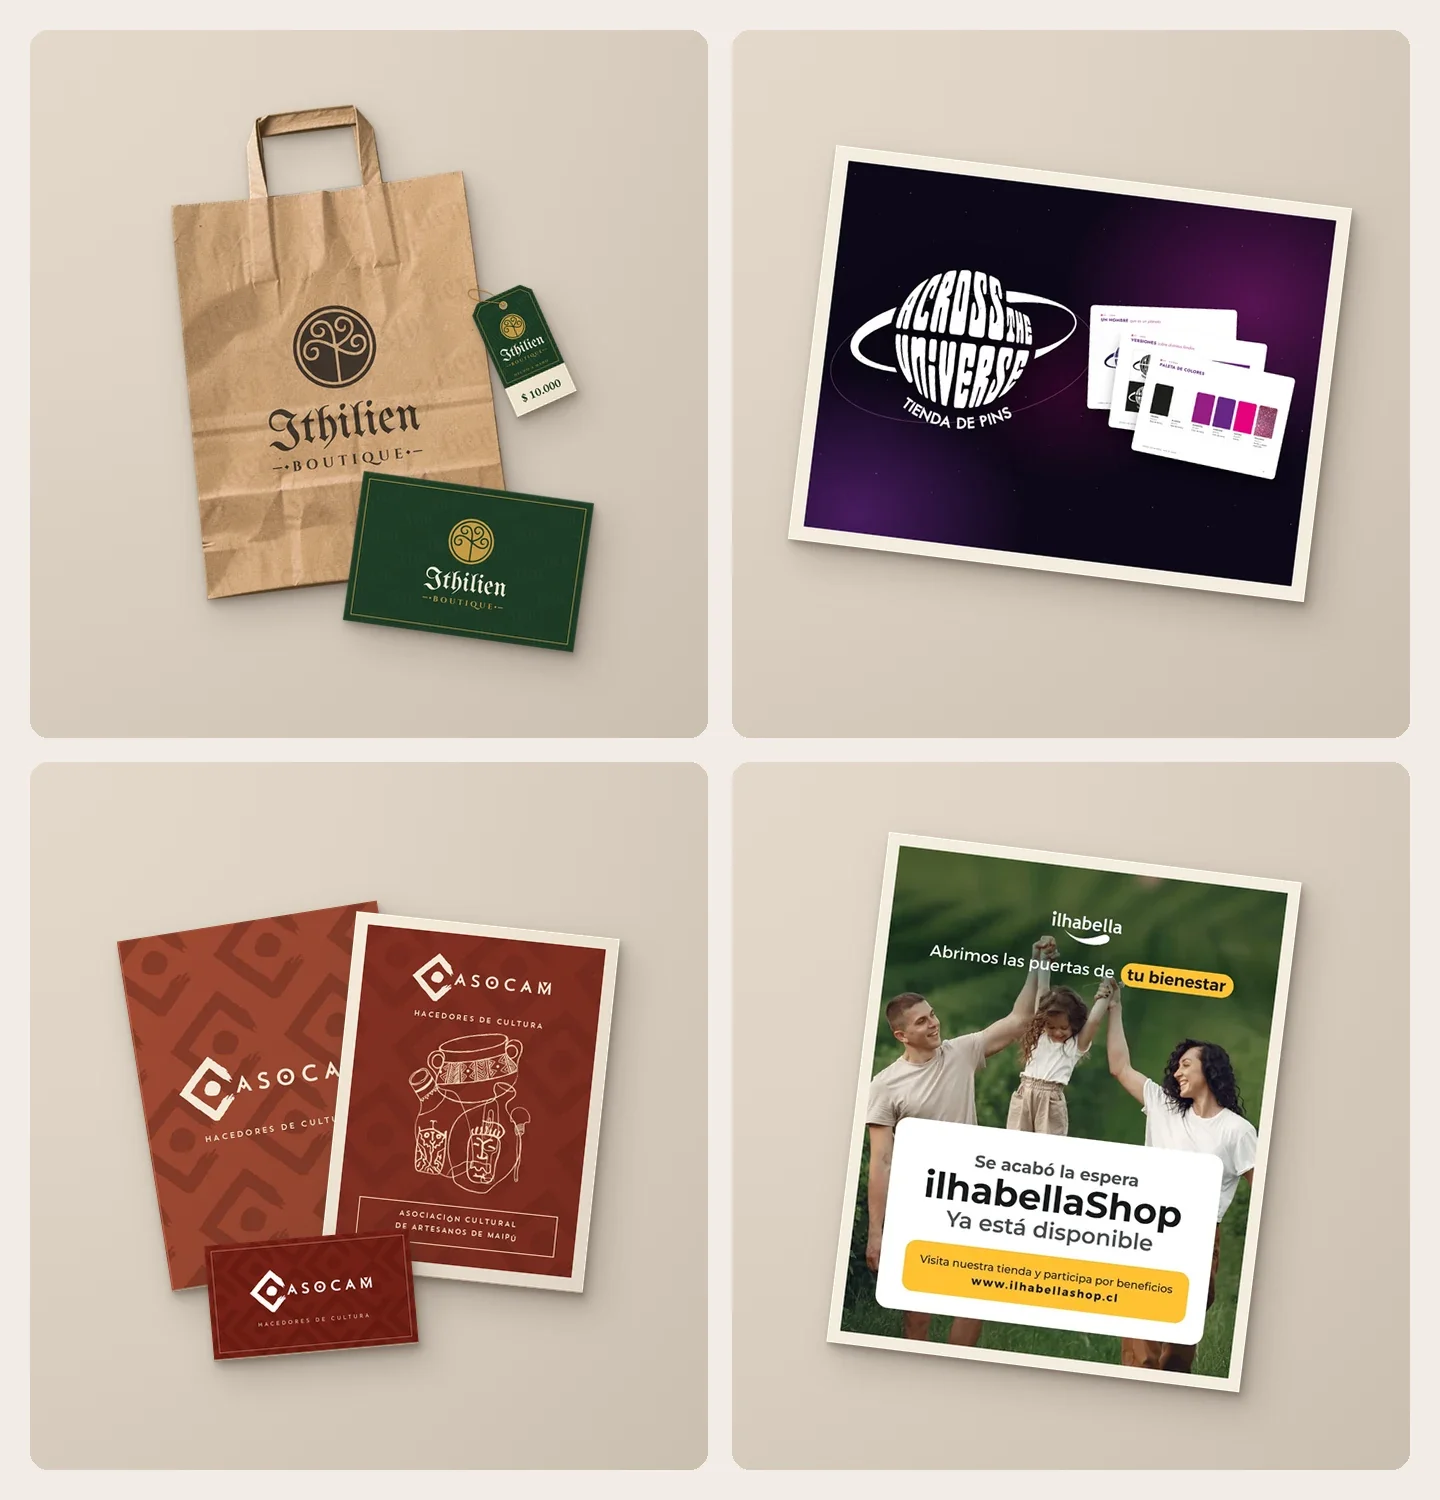
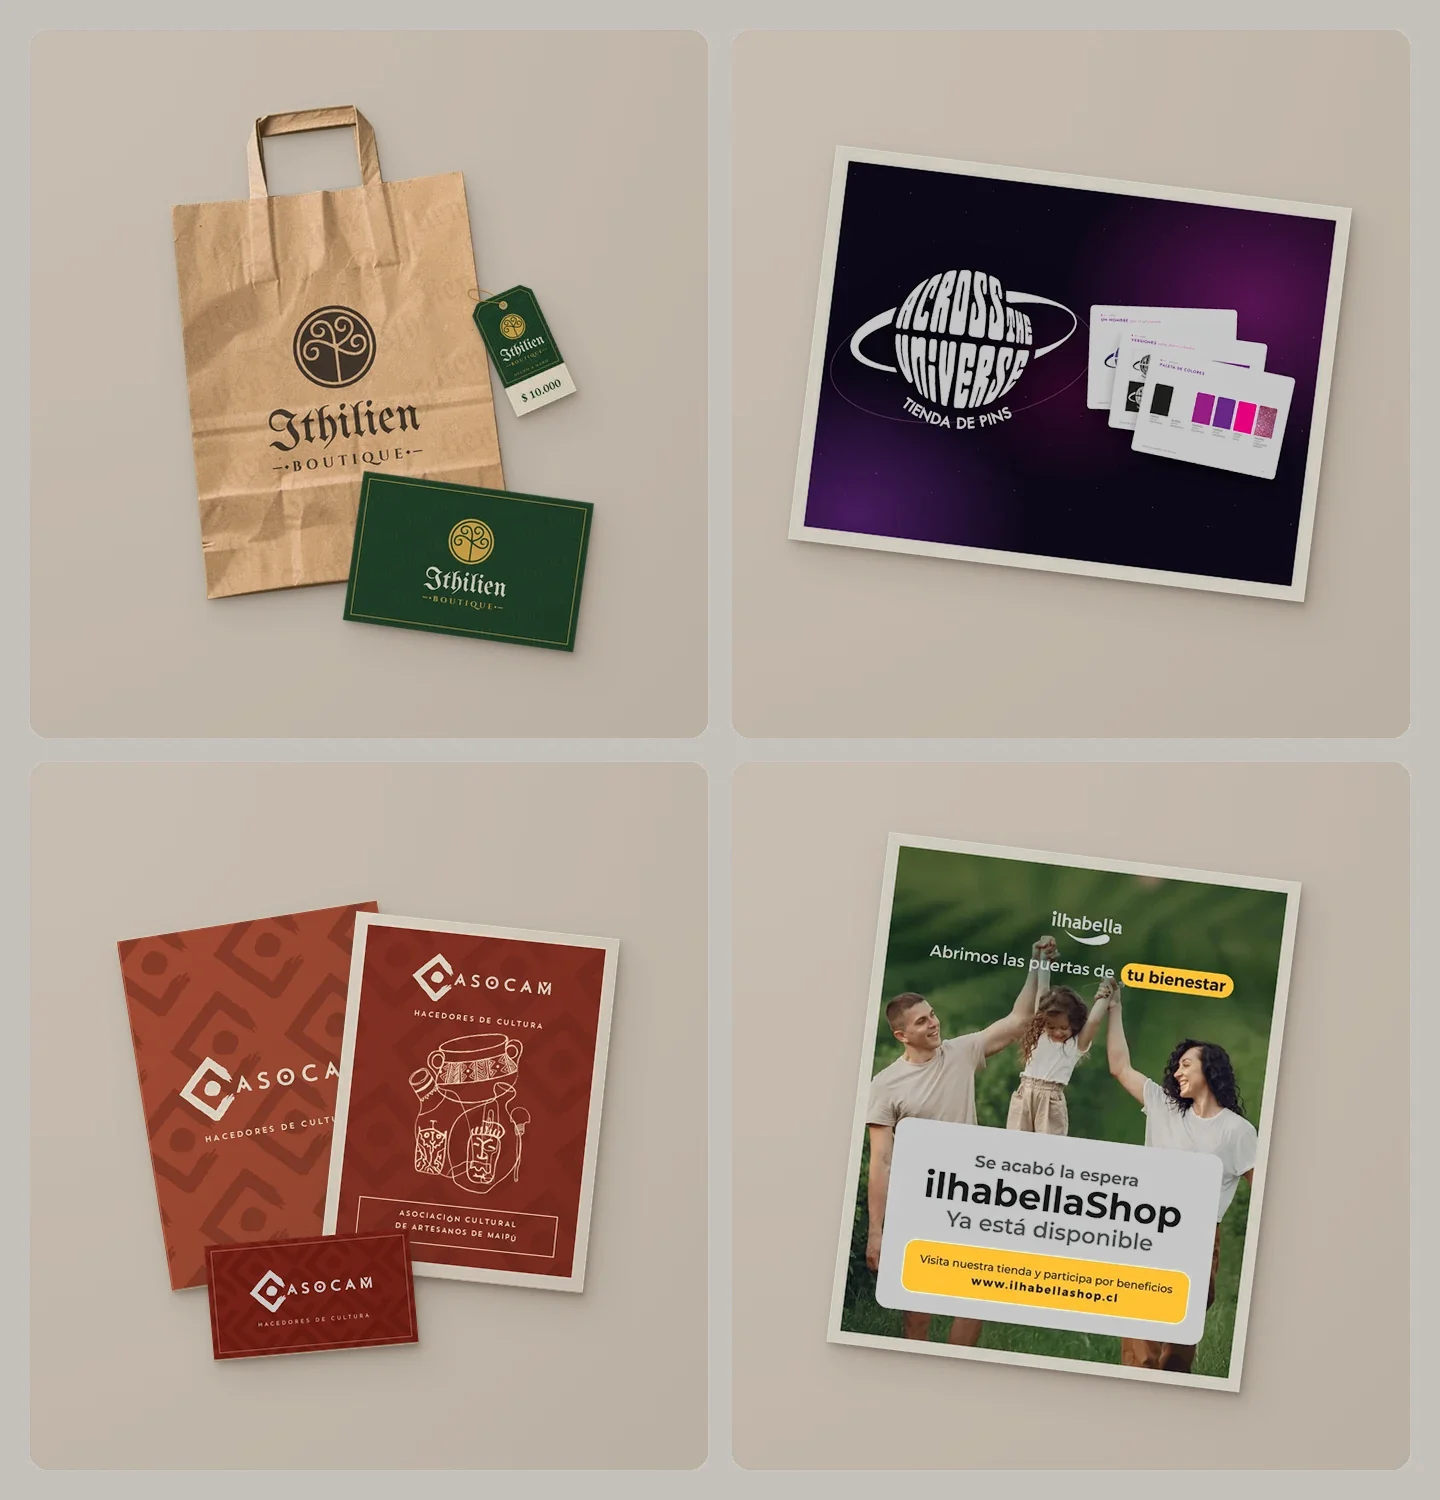
Diseño gráfico: fondo de la portada más oscuro
Claude-Session: https://claude.ai/code/session_01MtPmk7gxzdfgW79Ci4jH3T

diff --git a/index.html b/index.html
@@ -182,7 +182,7 @@ p{margin:0}
 .brands-card .more img{width:auto;max-width:100%;height:clamp(26px,3.6vw,40px);height:2.5cqw}
 .brands-card .more img.tall{height:clamp(34px,4.6vw,52px);height:3.6cqw}
 @supports (height:1cqw){.brands-card .more{gap:5.4cqw;margin-top:3cqw;padding-top:3cqw}}
-.bg-plum{background:var(--brand-plum)} .bg-sky{background:var(--brand-sky)} .bg-lavender{background:var(--brand-lavender)} .bg-peri{background:var(--brand-periwinkle)} .bg-berry{background:var(--brand-berry)}.dg-fill{padding:0!important}.dg-fill{background:#F2ECE7!important}.dg-fill img{object-fit:contain!important}.dg-fill::before,.dg-fill::after{display:none!important}.cover-img.dg-fill img{position:absolute;inset:0}.case-hero .dg-fill img{object-fit:contain!important}.dg-fill img{width:100%!important;height:100%!important;max-width:none!important;max-height:none!important;object-fit:cover;border-radius:0!important;box-shadow:none!important;transform:none!important}
+.bg-plum{background:var(--brand-plum)} .bg-sky{background:var(--brand-sky)} .bg-lavender{background:var(--brand-lavender)} .bg-peri{background:var(--brand-periwinkle)} .bg-berry{background:var(--brand-berry)}.dg-fill{padding:0!important}.dg-fill{background:#C5C1BC!important}.dg-fill img{object-fit:contain!important}.dg-fill::before,.dg-fill::after{display:none!important}.cover-img.dg-fill img{position:absolute;inset:0}.case-hero .dg-fill img{object-fit:contain!important}.dg-fill img{width:100%!important;height:100%!important;max-width:none!important;max-height:none!important;object-fit:cover;border-radius:0!important;box-shadow:none!important;transform:none!important}
 .cover-img.tall img{height:100%;max-height:none;object-fit:cover;object-position:top;width:62%}
 
 /* Hero de caso: texto | bloque de color */
